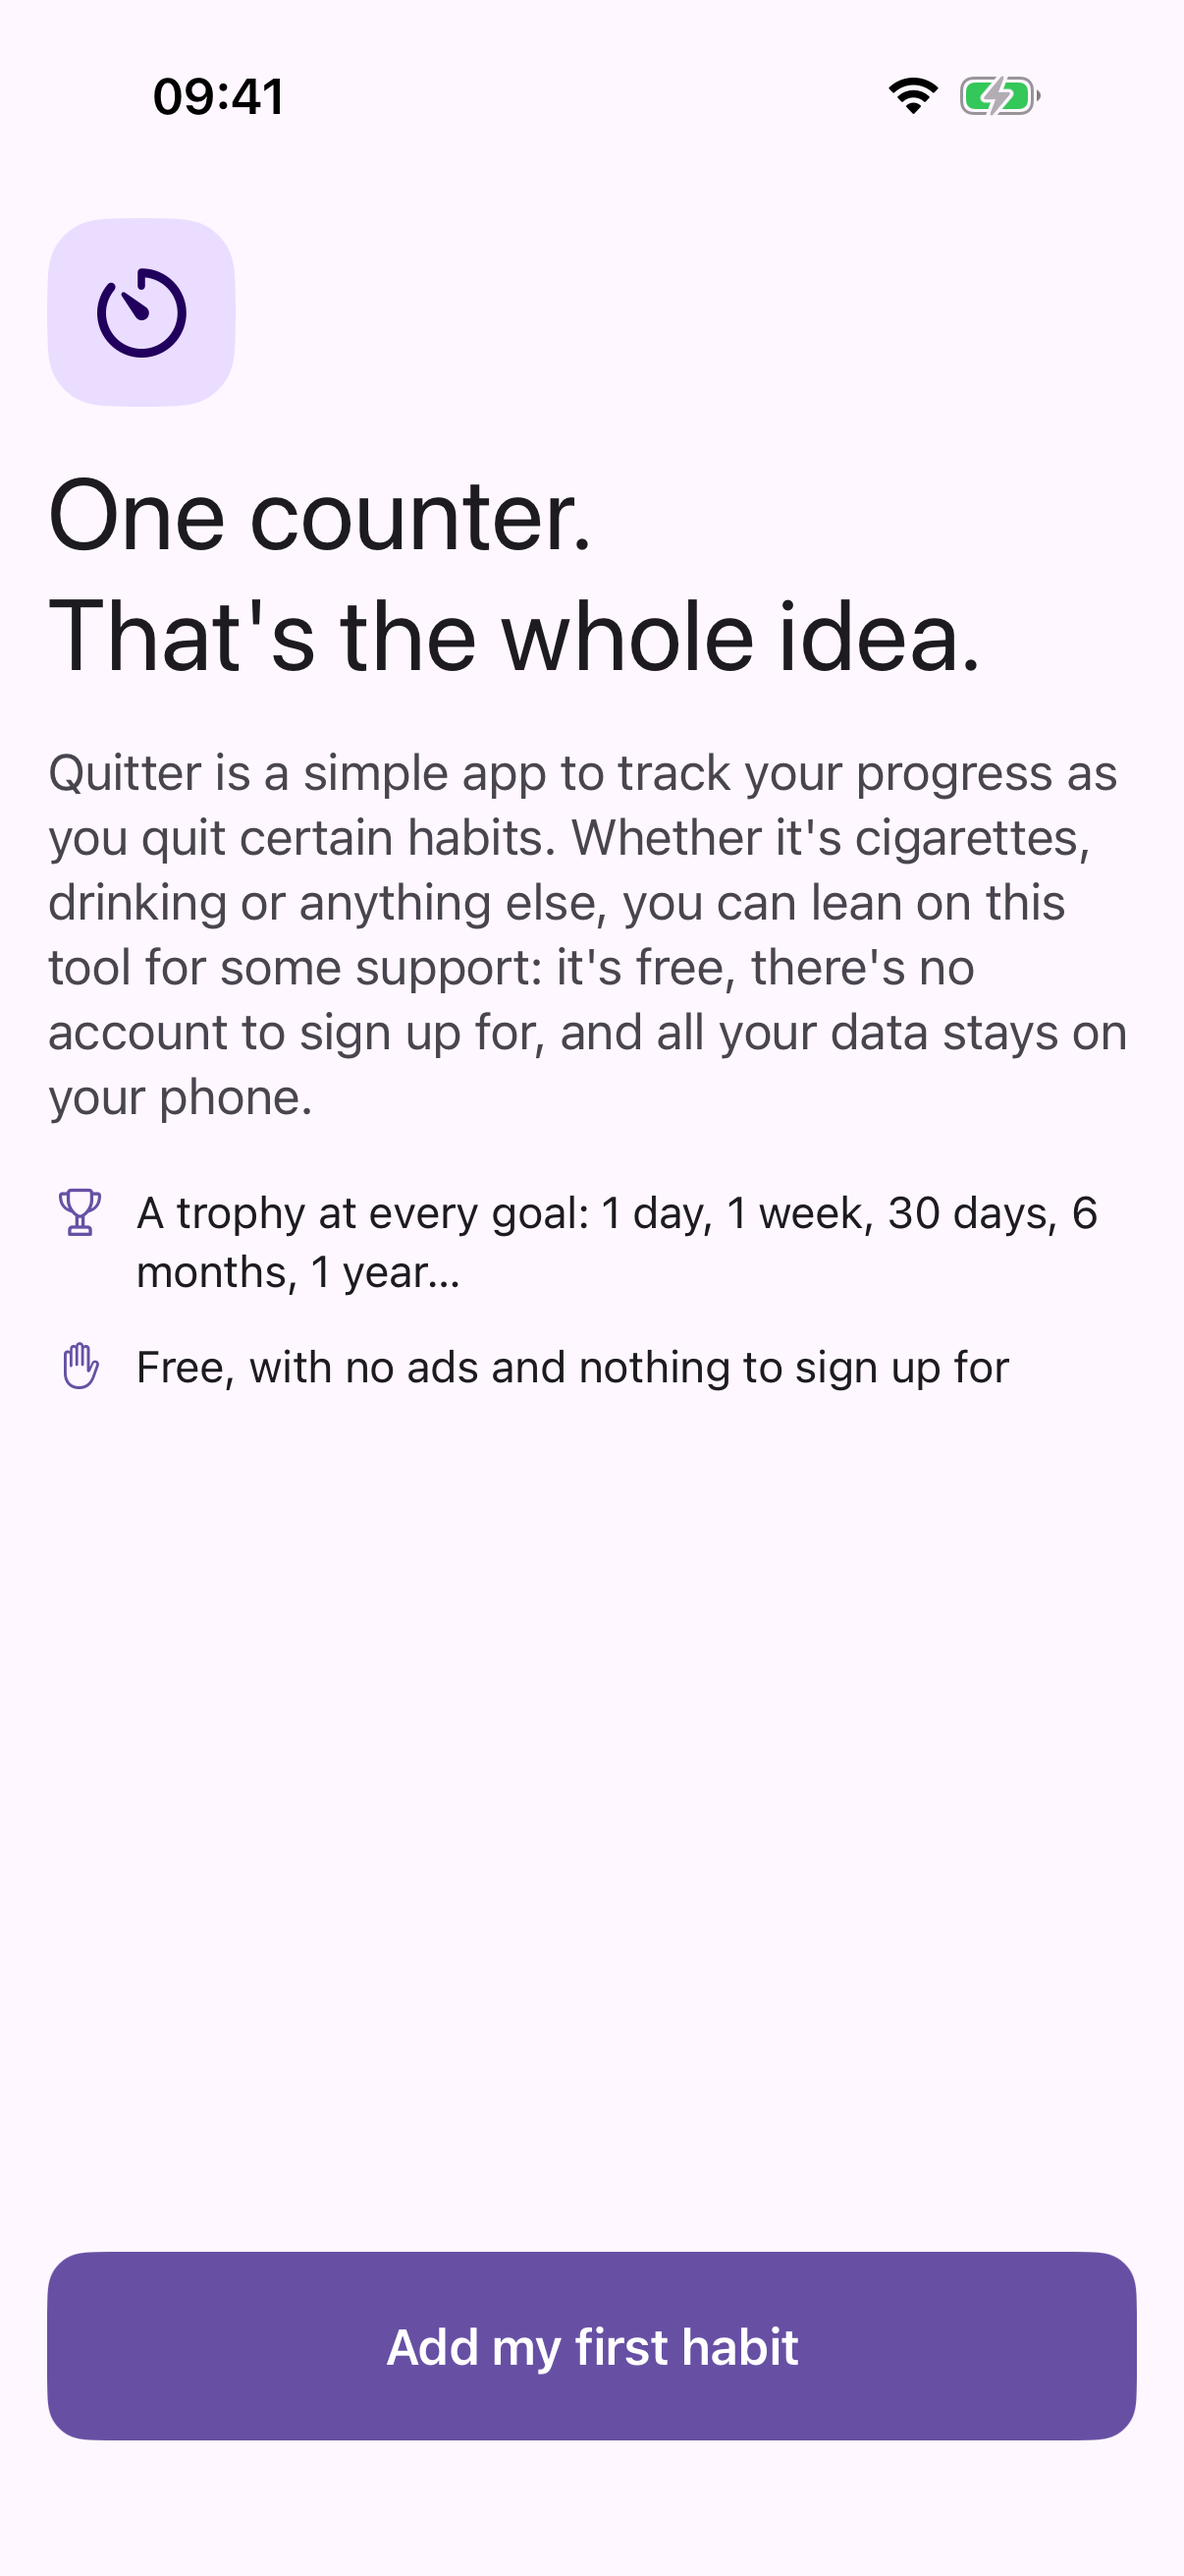
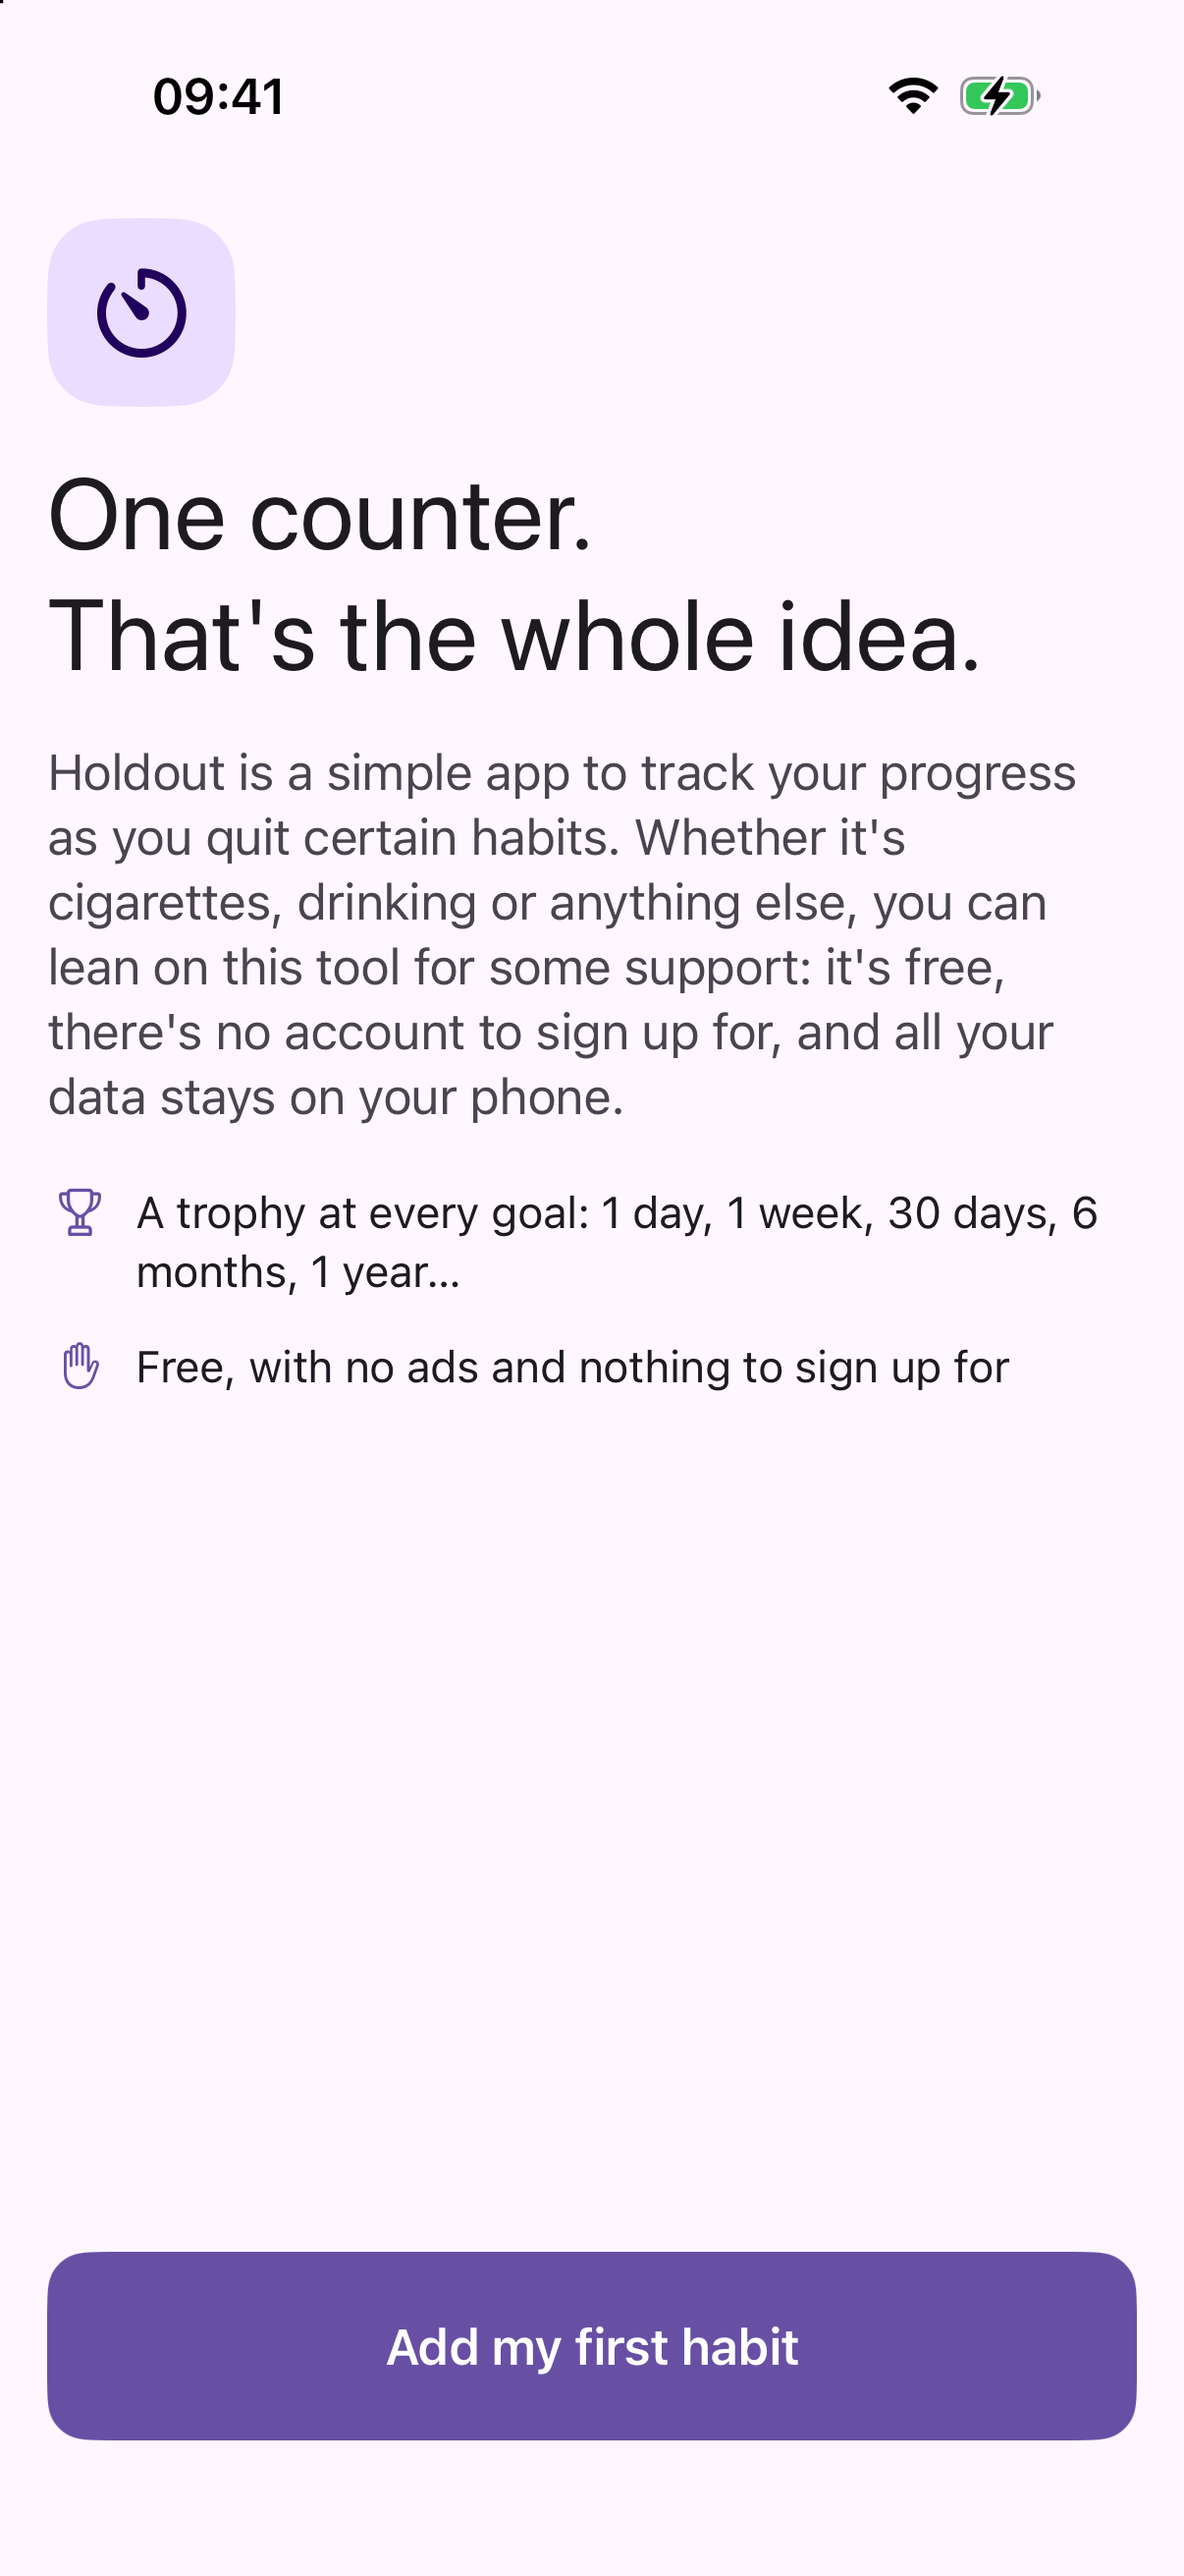
Rename the app to Holdout
"Quitter" is already taken on Google Play by an app with the same
purpose, so both apps become Holdout before their first release.

- Home-screen name Holdout; bundle IDs com.devarthur.holdout (+ .tests,
  .uitests)
- Every visible mention in English, Portuguese and Spanish, with the
  string catalog keys to match; export file holdout-YYYY-MM-DD.csv
- HoldoutApp, HoldoutMigrationPlan, ModelContainer.holdout
- README links to the renamed holdout-ios / holdout-android repos and a
  new Welcome screenshot

The Xcode project, target and Swift module keep the name Quitter: users
never see them, and renaming them would only churn the project file.

Changed region(s): [[0.0307, 0.278, 0.9511, 0.4325], [0.859, 0.4016, 0.8897, 0.4325], [0.8284, 0.0309, 0.859, 0.0618]]

diff --git a/QuitterTests/StoreAndExportTests.swift b/QuitterTests/StoreAndExportTests.swift
@@ -9,22 +9,22 @@ struct DatabaseMigrationTests {
         let folder = FileManager.default.temporaryDirectory.appendingPathComponent(UUID().uuidString)
         try FileManager.default.createDirectory(at: folder, withIntermediateDirectories: true)
         defer { try? FileManager.default.removeItem(at: folder) }
-        let url = folder.appendingPathComponent("quitter.store")
+        let url = folder.appendingPathComponent("holdout.store")
 
         do {
-            let store = SwiftDataHabitStore(container: try .quitter(url: url))
+            let store = SwiftDataHabitStore(container: try .holdout(url: url))
             _ = try store.add(HabitDraft(kind: .vaping, name: "Vape", lastDoneAt: .now, costPerDay: nil, minutesPerDay: 30))
         }
-        let reopened = SwiftDataHabitStore(container: try .quitter(url: url))
+        let reopened = SwiftDataHabitStore(container: try .holdout(url: url))
         #expect(reopened.allHabits().map(\.name) == ["Vape"])
-        #expect(QuitterMigrationPlan.schemas.count == 3)
+        #expect(HoldoutMigrationPlan.schemas.count == 3)
     }
 
     @Test func aVersionOneStoreIsMigratedAndTakesPersonalGoals() throws {
         let folder = FileManager.default.temporaryDirectory.appendingPathComponent(UUID().uuidString)
         try FileManager.default.createDirectory(at: folder, withIntermediateDirectories: true)
         defer { try? FileManager.default.removeItem(at: folder) }
-        let url = folder.appendingPathComponent("quitter.store")
+        let url = folder.appendingPathComponent("holdout.store")
 
         // A database as the first release wrote it, without personal goals.
         do {
@@ -34,7 +34,7 @@ struct DatabaseMigrationTests {
             try container.mainContext.save()
         }
 
-        let store = SwiftDataHabitStore(container: try .quitter(url: url))
+        let store = SwiftDataHabitStore(container: try .holdout(url: url))
         let habit = try #require(store.allHabits().first)
         #expect(habit.name == "Sweets")
         try store.addPersonalGoal(habitId: habit.id, days: 45, name: "Beach trip", at: .now)
@@ -45,7 +45,7 @@ struct DatabaseMigrationTests {
         let folder = FileManager.default.temporaryDirectory.appendingPathComponent(UUID().uuidString)
         try FileManager.default.createDirectory(at: folder, withIntermediateDirectories: true)
         defer { try? FileManager.default.removeItem(at: folder) }
-        let url = folder.appendingPathComponent("quitter.store")
+        let url = folder.appendingPathComponent("holdout.store")
         let start = Date(timeIntervalSince1970: 1_795_000_000)
 
         // A database from before the urge timer was removed.
@@ -64,7 +64,7 @@ struct DatabaseMigrationTests {
             try context.save()
         }
 
-        let store = SwiftDataHabitStore(container: try .quitter(url: url))
+        let store = SwiftDataHabitStore(container: try .holdout(url: url))
         #expect(store.allHabits().map(\.name) == ["Cigarettes"])
         #expect(store.slips(habitId: habitId).map(\.trigger) == [.stress])
         #expect(store.reasons(habitId: habitId).map(\.text) == ["For my lungs"])
@@ -79,6 +79,6 @@ struct ExportFileNameTests {
         saoPaulo.timeZone = TimeZone(identifier: "America/Sao_Paulo")!
         // 01:30 UTC on 24 November is still 23 November in São Paulo.
         let date = try Date("2026-11-24T01:30:00Z", strategy: .iso8601)
-        #expect(exportFileName(on: date, calendar: saoPaulo) == "quitter-2026-11-23.csv")
+        #expect(exportFileName(on: date, calendar: saoPaulo) == "holdout-2026-11-23.csv")
     }
 }

diff --git a/Quitter/Data/HabitStore.swift b/Quitter/Data/HabitStore.swift
@@ -242,7 +242,7 @@ enum SchemaV3: VersionedSchema {
 }
 
 /// How an older database on the phone is brought up to the current schema.
-enum QuitterMigrationPlan: SchemaMigrationPlan {
+enum HoldoutMigrationPlan: SchemaMigrationPlan {
     static var schemas: [any VersionedSchema.Type] { [SchemaV1.self, SchemaV2.self, SchemaV3.self] }
     static var stages: [MigrationStage] {
         [
@@ -255,14 +255,14 @@ enum QuitterMigrationPlan: SchemaMigrationPlan {
 extension ModelContainer {
     /// The app's database, opened through the migration plan. `inMemory` is for tests and previews:
     /// nothing is written to disk. `url` places it somewhere else, for tests.
-    static func quitter(inMemory: Bool = false, url: URL? = nil) throws -> ModelContainer {
+    static func holdout(inMemory: Bool = false, url: URL? = nil) throws -> ModelContainer {
         let schema = Schema(versionedSchema: SchemaV3.self)
         let config = if let url {
             ModelConfiguration(schema: schema, url: url)
         } else {
             ModelConfiguration(schema: schema, isStoredInMemoryOnly: inMemory)
         }
-        return try ModelContainer(for: schema, migrationPlan: QuitterMigrationPlan.self, configurations: config)
+        return try ModelContainer(for: schema, migrationPlan: HoldoutMigrationPlan.self, configurations: config)
     }
 }
 
@@ -270,6 +270,6 @@ extension SwiftDataHabitStore {
     /// A throwaway store for previews and tests.
     static func inMemory() -> SwiftDataHabitStore {
         // An in-memory database can't fail to open the way a file on disk can.
-        SwiftDataHabitStore(container: try! .quitter(inMemory: true))
+        SwiftDataHabitStore(container: try! .holdout(inMemory: true))
     }
 }

diff --git a/Quitter/Counter/CounterView.swift b/Quitter/Counter/CounterView.swift
@@ -52,7 +52,7 @@ struct CounterView: View {
                 .padding(.top, 28)
 
                 if Features.ads {
-                    Text("Quitter is free and ad-supported. Ads never appear while you log a slip.")
+                    Text("Holdout is free and ad-supported. Ads never appear while you log a slip.")
                         .font(.caption2)
                         .foregroundStyle(Palette.outline)
                 }
@@ -76,7 +76,7 @@ struct CounterView: View {
                 .foregroundStyle(Palette.onSurfaceVariant)
         } else if viewModel.notificationsBlocked {
             VStack(spacing: 4) {
-                Text("Notifications are off for Quitter.")
+                Text("Notifications are off for Holdout.")
                     .font(.subheadline)
                     .foregroundStyle(Palette.onSurfaceVariant)
                 Button("Open Settings") { openNotificationSettings(openURL) }
@@ -116,7 +116,7 @@ struct CounterView: View {
         .dynamicTypeSize(.accessibility3)
 }
 
-/// Quitter's notification page in the Settings app.
+/// Holdout's notification page in the Settings app.
 @MainActor
 func openNotificationSettings(_ openURL: OpenURLAction) {
     if let url = URL(string: UIApplication.openNotificationSettingsURLString) { openURL(url) }

diff --git a/Quitter/Settings/SettingsView.swift b/Quitter/Settings/SettingsView.swift
@@ -47,7 +47,7 @@ struct SettingsView: View {
                 }
             }
             Section("Your data") {
-                ShareLink(item: viewModel.export(), preview: SharePreview("Quitter export")) {
+                ShareLink(item: viewModel.export(), preview: SharePreview("Holdout export")) {
                     Label {
                         VStack(alignment: .leading, spacing: 2) {
                             Text("Export as CSV").foregroundStyle(Palette.onSurface)
@@ -99,7 +99,7 @@ struct SettingsView: View {
             Text("All habits, slips and reasons are deleted from this phone. This can't be undone. Export first if you want a copy.")
         }
         .task(id: scenePhase) { await viewModel.refreshNotifications() }
-        .alert("Notifications are off for Quitter.", isPresented: $viewModel.notificationsBlocked) {
+        .alert("Notifications are off for Holdout.", isPresented: $viewModel.notificationsBlocked) {
             Button("Open Settings") { openNotificationSettings(openURL) }
             Button("Cancel", role: .cancel) {}
         } message: {

diff --git a/Quitter/App/HoldoutApp.swift b/Quitter/App/HoldoutApp.swift
@@ -3,7 +3,7 @@ import SwiftUI
 import UserNotifications
 
 @main
-struct QuitterApp: App {
+struct HoldoutApp: App {
     /// UI tests launch with `-uiTesting` to start from an empty, throwaway database.
     private static let inMemory = ProcessInfo.processInfo.arguments.contains("-uiTesting")
 
@@ -44,7 +44,7 @@ final class AppServices {
 
     /// nil when the database can't be opened, e.g. the disk is full.
     static func open(inMemory: Bool) -> AppServices? {
-        guard let services = (try? ModelContainer.quitter(inMemory: inMemory)).map(AppServices.init(container:)) else { return nil }
+        guard let services = (try? ModelContainer.holdout(inMemory: inMemory)).map(AppServices.init(container:)) else { return nil }
         if inMemory { services.seedForUITests() }
         return services
     }

diff --git a/Quitter/Onboarding/WelcomeView.swift b/Quitter/Onboarding/WelcomeView.swift
@@ -17,7 +17,7 @@ struct WelcomeView: View {
                     .foregroundStyle(Palette.onSurface)
                     .accessibilityAddTraits(.isHeader)
 
-                Text("Quitter is a simple app to track your progress as you quit certain habits. Whether it's cigarettes, drinking or anything else, you can lean on this tool for some support: it's free, there's no account to sign up for, and all your data stays on your phone.")
+                Text("Holdout is a simple app to track your progress as you quit certain habits. Whether it's cigarettes, drinking or anything else, you can lean on this tool for some support: it's free, there's no account to sign up for, and all your data stays on your phone.")
                     .font(.body)
                     .foregroundStyle(Palette.onSurfaceVariant)
 

diff --git a/Quitter/Data/ExportCSV.swift b/Quitter/Data/ExportCSV.swift
@@ -32,10 +32,10 @@ func buildExportCSV(
     return rows.map { $0.map(csvField).joined(separator: ",") }.joined(separator: "\r\n") + "\r\n"
 }
 
-/// "quitter-2026-11-23.csv", dated with the local calendar day.
+/// "holdout-2026-11-23.csv", dated with the local calendar day.
 func exportFileName(on date: Date, calendar: Calendar) -> String {
     let day = calendar.dateComponents([.year, .month, .day], from: date)
-    return String(format: "quitter-%04d-%02d-%02d.csv", day.year ?? 0, day.month ?? 0, day.day ?? 0)
+    return String(format: "holdout-%04d-%02d-%02d.csv", day.year ?? 0, day.month ?? 0, day.day ?? 0)
 }
 
 /// Quotes a field when it holds a comma, quote or line break, doubling any quotes inside.

diff --git a/Quitter/Notifications/MilestoneNotifier.swift b/Quitter/Notifications/MilestoneNotifier.swift
@@ -25,7 +25,7 @@ extension EnvironmentValues {
 
 extension Notification.Name {
     /// Posted by the store after a habit is added, edited, reset or deleted.
-    static let habitsChanged = Notification.Name("app.quitter.habitsChanged")
+    static let habitsChanged = Notification.Name("app.holdout.habitsChanged")
 }
 
 /// A notification at each trophy. iOS can't run the app when one is delivered, so several are

diff --git a/Quitter/Counter/CounterViewModel.swift b/Quitter/Counter/CounterViewModel.swift
@@ -11,7 +11,7 @@ final class CounterViewModel {
 
     /// Trophy notifications are on.
     private(set) var notificationsOn = false
-    /// The user wants them, but iOS has them turned off for Quitter.
+    /// The user wants them, but iOS has them turned off for Holdout.
     private(set) var notificationsBlocked = false
 
     private let onGoToHabits: () -> Void

diff --git a/Quitter/Settings/SettingsViewModel.swift b/Quitter/Settings/SettingsViewModel.swift
@@ -7,7 +7,7 @@ final class SettingsViewModel {
     var deleteFailed = false
     /// Trophy notifications are on.
     private(set) var milestonesOn = false
-    /// The user turned them on, but iOS has them off for Quitter.
+    /// The user turned them on, but iOS has them off for Holdout.
     var notificationsBlocked = false
 
     private let store: HabitStore

diff --git a/Quitter/Theme/Palette.swift b/Quitter/Theme/Palette.swift
@@ -1,6 +1,6 @@
 import SwiftUI
 
-/// Brand colors from the Quitter design. Each one has a light and dark value in Assets.xcassets.
+/// Brand colors from the Holdout design. Each one has a light and dark value in Assets.xcassets.
 enum Palette {
     static let background = Color("Background")
     static let surfaceContainer = Color("SurfaceContainer")

diff --git a/README.md b/README.md
@@ -1,8 +1,8 @@
-# Quitter for iOS
+# Holdout for iOS
 
 **One counter. That's the whole idea.**
 
-Your last cigarette, drink or bet starts the clock. Quitter shows how long you've held out, the money you didn't spend and the time you got back, for smoking, alcohol, sugar, vaping, social media or gambling. No account, no ads, no tracking: everything stays on your iPhone.
+Your last cigarette, drink or bet starts the clock. Holdout shows how long you've held out, the money you didn't spend and the time you got back, for smoking, alcohol, sugar, vaping, social media or gambling. No account, no ads, no tracking: everything stays on your iPhone.
 
 ![iOS 17+](https://img.shields.io/badge/iOS-17%2B-000000?logo=apple&logoColor=white)
 ![Swift 6](https://img.shields.io/badge/Swift-6-F05138?logo=swift&logoColor=white)
@@ -15,11 +15,11 @@ Your last cigarette, drink or bet starts the clock. Quitter shows how long you'v
   <img src="docs/screenshots/trophies.png" width="200" alt="Trophies: 1 day and 1 week earned, 30 days next">
 </p>
 
-> The Android app, built natively in Kotlin and Jetpack Compose with the same features, lives in [quitter-android](https://github.com/devArthur4718/quitter-android).
+> The Android app, built natively in Kotlin and Jetpack Compose with the same features, lives in [holdout-android](https://github.com/devArthur4718/holdout-android).
 
 ---
 
-## Why Quitter is different
+## Why Holdout is different
 
 - **Private by design.** No account, no server, no analytics, no ads, and no networking code at all — the app has nothing that could send your data anywhere. Your iPhone's own backup can keep a copy, so a new phone doesn't cost you your streak.
 - **A slip is not a failure.** Logging a slip restarts the counter, but your longest streak and all the money and time you've saved are kept. The wording never shames.
@@ -151,8 +151,8 @@ English, Brazilian Portuguese and Spanish in one String Catalog, with real plura
 Requirements: Xcode 16 or later (developed with Xcode 27).
 
 ```bash
-git clone git@github.com:devArthur4718/quitter-ios.git
-cd quitter-ios
+git clone git@github.com:devArthur4718/holdout-ios.git
+cd holdout-ios
 open Quitter.xcodeproj
 ```
 
